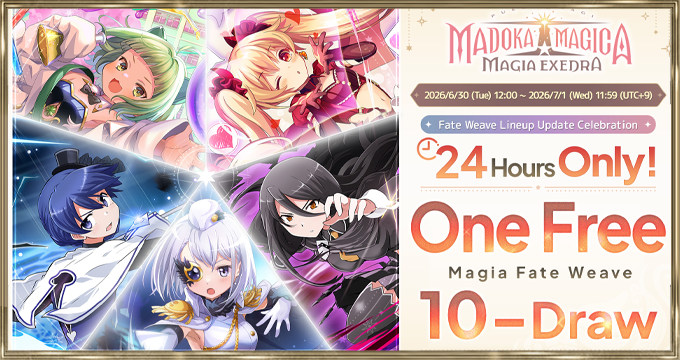
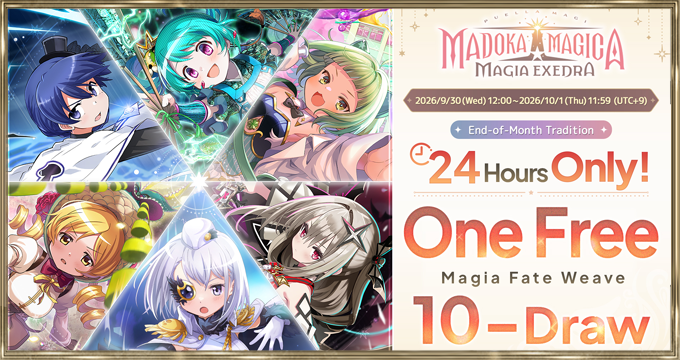
1.5th Anniversary

diff --git a/js/data.js b/js/data.js
@@ -142,29 +142,14 @@ var timerData = [
         "priority": 7,
         "timers": [
             {
-				name: "1.5th Anniversary Countdown",
-                "start": "sept 18 2026, 12:00",
-                "end": "sept 27 2026, 20:59"
+				name: "1.5th Anniversary Login Bonus",
+                "start": "sept 27 2026, 21:00",
+                "end": "oct 31 2026, 11:59"
 			},
             {
-				name: "Rebellion Redux Celebration 1st Login 3,000 Magica Stones",
-                "start": "July 31 2026, 12:00",
-                "end": "aug 31 2026, 11:59"
-			},
-            {
-				name: "Rebellion Redux Celebration Bonus Part 1",
-                "start": "July 31 2026, 12:00",
-                "end": "aug 31 2026, 11:59"
-			},
-            {
-				name: "Rebellion Redux Celebration Bonus Part 2",
-                "start": "aug 22 2026, 12:00",
-                "end": "aug 28 2026, 21:59"
-			},
-            {
-				name: "Magia Et Cetera: 100 Episodes Celebration✨",
-                "start": "aug 18 2026, 12:00",
-                "end": "aug 31 2026, 11:59",
+				name: "1.5th Anniversary Gift Claim Period",
+                "start": "sept 27 2026, 21:00",
+                "end": "oct 31 2026, 11:59"
 			},
             {
 				name: "Walpurgisnacht Rising feat. 5★ Limited Madoka",
@@ -175,16 +160,6 @@ var timerData = [
 				name: "Walpurgisnacht Rising 3,000 Magica Stones Gift",
                 "start": "aug 28 2026, 22:00",
                 "end": "sept 30 2026, 23:59",
-			},
-            {
-				name: "10 Keys Gift Part 2",
-                "start": "aug 11 2026, 20:00",
-                "end": "aug 28 2026, 21:59",
-			},
-            {
-				name: "10 Keys Gift Part 2",
-                "start": "aug 12 2026, 20:00",
-                "end": "aug 28 2026, 21:59",
 			},
         ]
     },
@@ -269,9 +244,9 @@ var timerData = [
         "priority": 5,
         "timers": [
             {
-				name: "1.5th Anniversary Countdown Missions",
-                "start": "sept 18 2026, 12:00",
-                "end": "sept 27 2026, 20:59"
+				name: "Half QP",
+                "start": "sept 28 2026, 5:00",
+                "end": "oct 9 2026, 11:59",
 			},
             {
 				name: "Main Quest Clear Support Buffs (Standard)",
@@ -308,7 +283,17 @@ var timerData = [
         "priority": 6,
         "timers": [
         	{
-				name: "Walpurg Rising Bingo",
+				name: "1.5th Anniversary Bingo Pt. 1",
+                "start": "sept 27 2026, 21:00",
+                "end": "oct 31 2026, 11:59",
+			},
+        	{
+				name: "1.5th Anniversary Bingo Pt. 2",
+                "start": "oct 09 2026, 12:00",
+                "end": "oct 31 2026, 11:59",
+			},
+        	{
+				name: "Walpurgis Rising Bingo",
                 "start": "aug 28 2026, 22:00",
                 "end": "oct 30 2026, 11:59",
 			},
@@ -351,6 +336,11 @@ var timerData = [
         "column": 0,
         "priority": 3,
         "timers": [
+			{
+				"name": "Score Attack【VS Box Witch】",
+                "start": "Sept 27 2026, 21:00",
+                "end": "nov 05 2026, 11:59"
+			},
              {
 				name: "Tower | Mirror Layers 111-115",
                 "start": "aug 21 2026, 12:00",
@@ -392,6 +382,25 @@ var timerData = [
 			},
         ]
     },
+    {
+        "type": "Event",
+        "title": [
+			"【What-If Story Event】My Friend",
+			"『私の友達／わたしの友達』"
+        ],
+        "image": [
+            "imgs/exedra/story/my-friend.png"
+        ],
+        "column": 0,
+        "priority": 3,
+        "timers": [
+			{
+				"name": "Event, Increased Rewards and Medal Missions",
+                "start": "sept 27 2026, 21:00",
+                "end": "oct 31 2026, 11:59",
+			},
+        ]
+        },
     {
         "type": "Event",
         "title": [
@@ -772,9 +781,9 @@ var timerData = [
 		priority: 0,
 		timers: [
 			{
-				name: "Season 39",
-				start: "sept 14 2026, 12:00",
-				end: "sept 27 2026, 23:59",
+				name: "Season 40",
+				start: "sept 28 2026, 12:00",
+				end: "oct 12 2026, 23:59",
 			},
             {
 				name: "Season 38",
@@ -811,9 +820,19 @@ var timerData = [
         "priority": 100,
         "timers": [
 			{
+				name: "Homura Akemi Walpurgis Celebration Packs",
+                "start": "sept 27 2026, 21:00",
+                "end": "oct 31 2026, 11:59",
+			},
+			{
+				name: "1.5th Anniversary 5★ Selection Packs",
+                "start": "sept 27 2026, 21:00",
+                "end": "oct 31 2026, 11:59",
+			},
+			{
 				name: "Training Spree Packs",
-                "start": "July 31 2026, 12:00",
-                "end": "aug 31 2026, 11:59"
+                "start": "sept 27 2026, 21:00",
+                "end": "oct 31 2026, 11:59",
 			},
 			{
 				name: "Ashley Taylor Celebration Packs",
@@ -836,7 +855,7 @@ var timerData = [
                 "end": "sept 30 2026, 11:59",
 			},
 			{
-				name: "Walpurgis Rising Packs - Madoka",
+				name: "Madoka Walpurgis Celebration Packs",
                 "start": "aug 28 2026, 22:00",
                 "end": "oct 29 2026, 11:59",
 			},
@@ -930,6 +949,16 @@ var timerData = [
 		priority: 3,
 		timers: [
 			{
+                name: "[Metallicized Projectile] Homura Akemi",
+                "start": "sept 27 2026, 21:00",
+                "end": "nov 1 2026, 11:59",
+			},
+			{
+                name: "[Exclusive Reruns] Kyoko Sakura & Rika Ayano",
+                "start": "sept 27 2026, 21:00",
+                "end": "oct 17 2026, 11:59",
+			},
+			{
                 name: "[Carnival Cuddleboom] Ashley Taylor",
                 "start": "Sept 10 2026, 12:00",
                 "end": "oct 1 2026, 11:59"
@@ -966,18 +995,8 @@ var timerData = [
 			},
             {
 				name: "5★ Kioku Selection Pack Medals",
-                "start": "aug 28 2026, 22:00",
-                "end": "sept 30 2026, 11:59",
-			},
-            {
-				name: "Sumire & Fuka",
-                "start": "march 27 2026, 22:00",
-                "end": "may 01 2026, 11:59",
-			},
-            {
-				name: "5★ Kioku Trading Medals",
-                "start": "march 27 2026, 22:00",
-                "end": "may 01 2026, 11:59",
+                "start": "sept 27 2026, 21:00",
+                "end": "oct 31 2026, 11:59",
 			},
             {
 				name: "Sweet Delights Kyoko & Mami",
@@ -1050,12 +1069,12 @@ var timerData = [
             "imgs/exedra/gacha00/free-24.png",
         ],
         "column": 1,
-        "priority": 4,
+        "priority": 100,
         "timers": [
             {
                 name: "24 Hours Only!🪄",
-                "start": "may 31 2026, 12:00",
-                "end": "june 1 2026, 11:59",
+                "start": "sept 30 2026, 12:00",
+                "end": "oct 1 2026, 11:59",
                 extraPriority: 1000
             },
         ]
@@ -1070,13 +1089,13 @@ var timerData = [
             "imgs/exedra/feat/free.png",
         ],
         "column": 1,
-        "priority": 5,
+        "priority": 20,
         "timers": [
             {
                 name: "5★ draw rate 50% for Step 5 on each cycle",
                 "start": "aug 28 2026, 22:00",
                 "end": "sept 30 2026, 11:59",
-                extraPriority: 100
+                // extraPriority: 100
             },
         ]
     },
@@ -1087,15 +1106,15 @@ var timerData = [
             "『最大150連！1日1回無料10連ガチャ』"
         ],
         "image": [
-            "imgs/exedra/gacha00/free.png",
+            "imgs/exedra/fate/ten-free-anni.png",
         ],
         "column": 1,
         "priority": 0,
         "timers": [
             {
                 name: "",
-                "start": "march 27 2026, 22:00",
-                "end": "april 30 2026, 11:59",
+                "start": "sept 27 2026, 21:00",
+                "end": "oct 31 2026, 11:59",
                 extraPriority: 1000
             }
         ]
@@ -1148,30 +1167,26 @@ var timerData = [
             },
         ]
      },
-    {
+         	{
         "type": "Gacha",
         "title": [
-			"【New】[Luminous Tenet] Kush Irina ",
-            "『【★5 】[赫奕の福音]入名クシュ』"
+			"【Limited New】[Metallicized Projectile] Homura Akemi (Walpurg Rising)",
+            "『新★5キオク暁美ほむら(ワルプルギスの廻天)』"
         ],
         "image": [
-            "imgs/exedra/fate/kush.png",
+            "imgs/exedra/fate/homu-walp.png",
         ],
         "column": 1,
-        "priority": 5,
+        "priority": 9,
         "timers": [
             {
-                name: "",
-                "start": "July 31 2026, 12:00",
-                "end": "aug 31 2026, 11:59"
-            },
-            {
-                name: "Paid Step Up",
-                "start": "june 16 2026, 12:00",
-                "end": "june 30 2026, 11:59",
-            },
+                name: "Flame Atacker",
+                "start": "sept 27 2026, 21:00",
+                "end": "oct 31 2026, 11:59",
+            //    extraPriority: 1000
+            }
         ]
-     },
+    },
          	{
         "type": "Gacha",
         "title": [
@@ -1306,6 +1321,25 @@ var timerData = [
                 name: "Perform a 10-draw 10 times to get a 5★ medal",
                 "start": "jan 28 2026, 12:00",
                 "end": "feb 28 2026, 11:59"
+            },
+        ]
+    },
+      	{
+        "type": "Gacha",
+        "title": [
+			"1.5th Anniversary Exclusive Reruns",
+            "『1.5th記念・限定キオク復刻』"
+        ],
+        "image": [
+            "imgs/exedra/fate/ex-rerun.png",
+        ],
+        "column": 1,
+        "priority": 2,
+        "timers": [
+            {
+                name: "[Crimson Confectioner] Kyoko Sakura",
+                "start": "sept 27 2026, 21:00",
+                "end": "oct 07 2026, 11:59",
             },
         ]
     },

diff --git a/index.html b/index.html
@@ -152,8 +152,8 @@
 					<div class="update">
 						<img class="updateimg" src="imgs\notice.png">
 						<h5 id="header">
-						&nbsp;&nbsp;&nbsp;&nbsp;The Clocktower last update was on September 24th, 2026 at 13:00 EST
-					    <br>&nbsp;&nbsp;&nbsp;&nbsp;Many permanent features have been added to Ver. 1.16.1 that have not been listed here.</h5>
+						&nbsp;&nbsp;&nbsp;&nbsp;The Clocktower last update was on September 28th, 2026 at 73:00 EST
+					    <br>&nbsp;&nbsp;&nbsp;&nbsp;Many permanent features have been added for the 1.5th Anniversary that have not been listed here.</h5>
 						<h6 id="header">
 							<br>※ Newly announced events sometimes aren't given a end date until they show up in the in game "News" section and will be updated accordingly
 							<br>&nbsp;&nbsp;&nbsp;&nbsp;&nbsp;Please double check <a target="_blank" href="https://x.com/madoka_exedraEN">Magia Exedra Twitter</a> and in game notices for if you feel something is off
